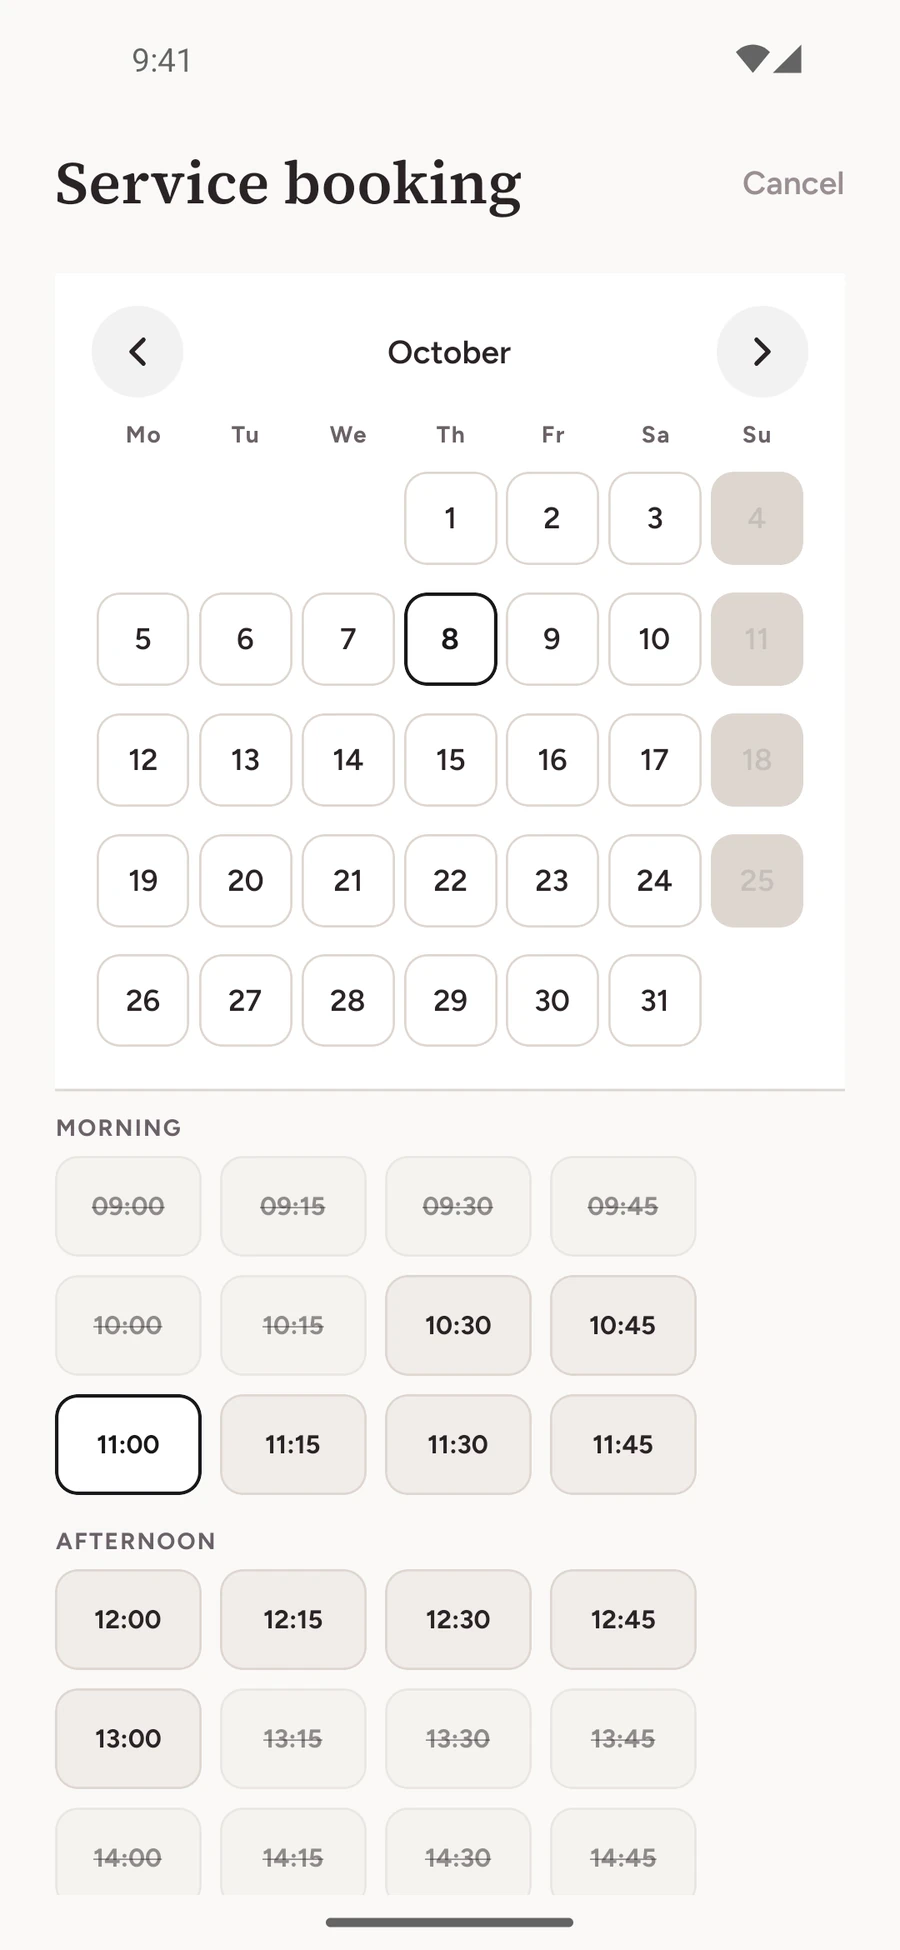
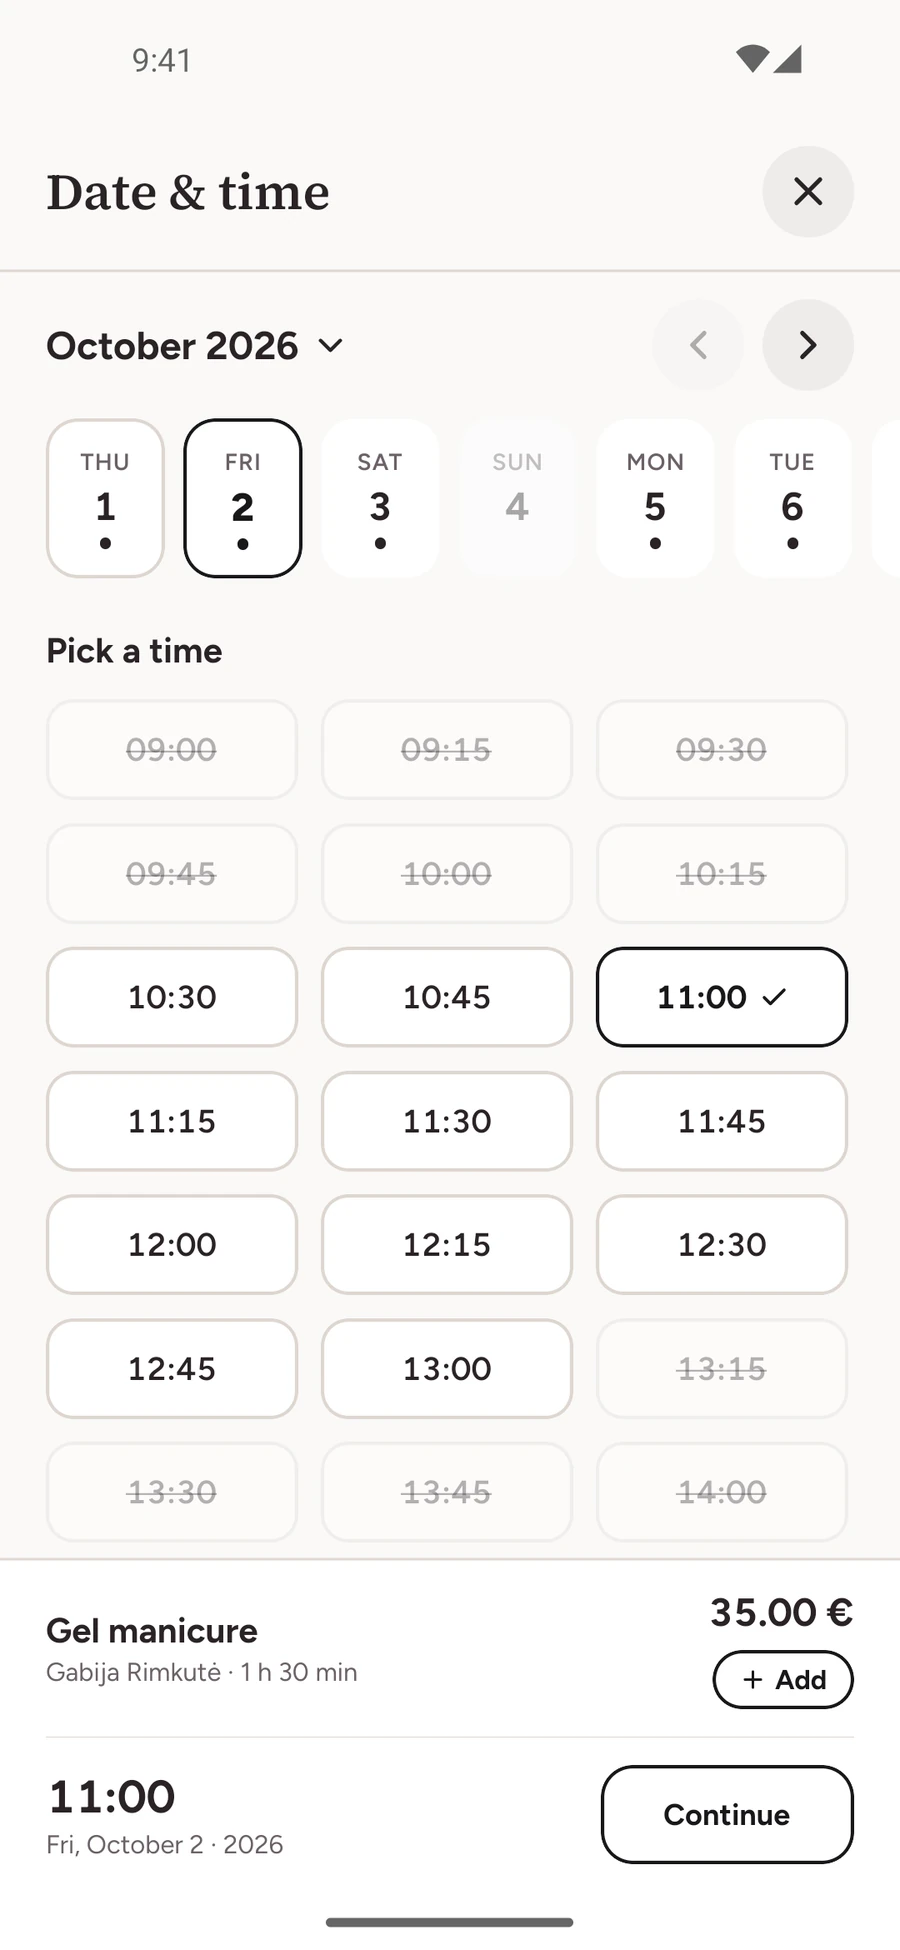
Retake the hero phone's screens after the new booking window and header (avocadas/Gloumi#136)
The first set came from ieva-prod 79b0dc5 with two changes still to come,
and the developer chose to ship it and retake once they landed. Both are now
on ieva-prod a1d9c24: the booking date and time window was rebuilt as a day
strip, a three-column time grid and a two-part bar (#138), and the header's
menu, badge and icons were spaced evenly (#126).

Six of the eight images changed: Discover and Search for the header, and
booking, which now shows the new Date & time window with Friday 11:00 picked
instead of the old inline calendar. Both profile images came out
byte-identical, because nothing on that screen moved.

Taken with scripts/app-screens exactly as its README says; the README now
has the new booking steps, and two traps met on the way: once in three cold
starts the feed came up without its header and only another cold start
brought it back, and the dev menu does not open over an open window.

diff --git a/scripts/app-screens/README.md b/scripts/app-screens/README.md
@@ -74,20 +74,27 @@ Viskas iš svetainės aplanko. Programėlės repozitorija turi būti šalia
    krumpliaratis lieka kadre.
 6. **Kadrai** į `%TEMP%\gloumi-app-screens\shots\lt\` (`feed`, `search`,
    `profile`, `booking`.png): `adb exec-out screencap -p > <failas>`.
-   2026-09-30 Pixel_5 (1080×2340) koordinatės, prieš kiekvieną bakstelėjimą
-   tikrinti nauju kadru:
-   - **feed** – iškart po paleidimo (Gabija pirma);
+   2026-10-01 Pixel_5 (1080×2340) koordinatės (`ieva-prod` `a1d9c24`), prieš
+   kiekvieną bakstelėjimą tikrinti nauju kadru:
+   - **feed** – po paleidimo (Gabija pirma), kai matyti antraštė su meniu ir
+     „Tau / Sekami“;
    - **search** – skirtukas Paieška (418, 2215), nepaslinktas: paslinkus
      pavadinimas užlenda po laikrodžiu;
-   - **profile** – Atrasti (175, 2215), tada Gabijos vardas įraše (390, 1071);
+   - **profile** – Atrasti (175, 2215), tada Gabijos vardas įraše (390, 1068);
+     palaukti, kol žemėlapyje atsiras raudonas žymeklis;
    - **booking** – „Rezervuoti laiką“ (657, 2172), „Manikiūras su geliu“
-     (538, 1030), slinkti, kitas mėnuo, ketvirtadienis, slinkti, kad kalendorius
-     būtų viršuje, 11:00.
+     (538, 1030), „Pasirinkti datą ir laiką“ (538, 1752), penktadienis dienų
+     juostoje (290, 597), 11:00 (866, 1196). Kadras – „Data ir laikas“ langas
+     su pažymėtu laiku; „Tęsti“ nespausti.
 
    Kadrai vėluoja 4–10 s: palaukti ir fotografuoti dar kartą, o ne bakstelėti
    antrą kartą. Vertikalus braukimas prie pat dešinio krašto (x≈1062)
    nesuveikia, nes ten Android „atgal“ gestas – braukti ties x≈1000, ne per
-   kalendoriaus langelius.
+   kalendoriaus langelius. 2026-10-01 vienas iš trijų šaltų paleidimų srautą
+   parodė **be antraštės** (jos nebuvo ir `uiautomator` medyje), ir ji negrįžo
+   nei paslinkus, nei perjungus skirtuką – padėjo tik dar vienas šaltas
+   paleidimas. Kūrimo meniu (`keyevent 82`) virš atidaryto lango neatsidaro:
+   pirma uždaryti langą.
 7. **Anglų kalba:** `node scripts/app-screens/prepare.mjs --lang en`, šaltas
    paleidimas (`force-stop` + nuoroda), tie patys kadrai į `shots\en\`.
 8. **Į svetainę:** `node scripts/app-screens/to-webp.mjs` – visi aštuoni arba
